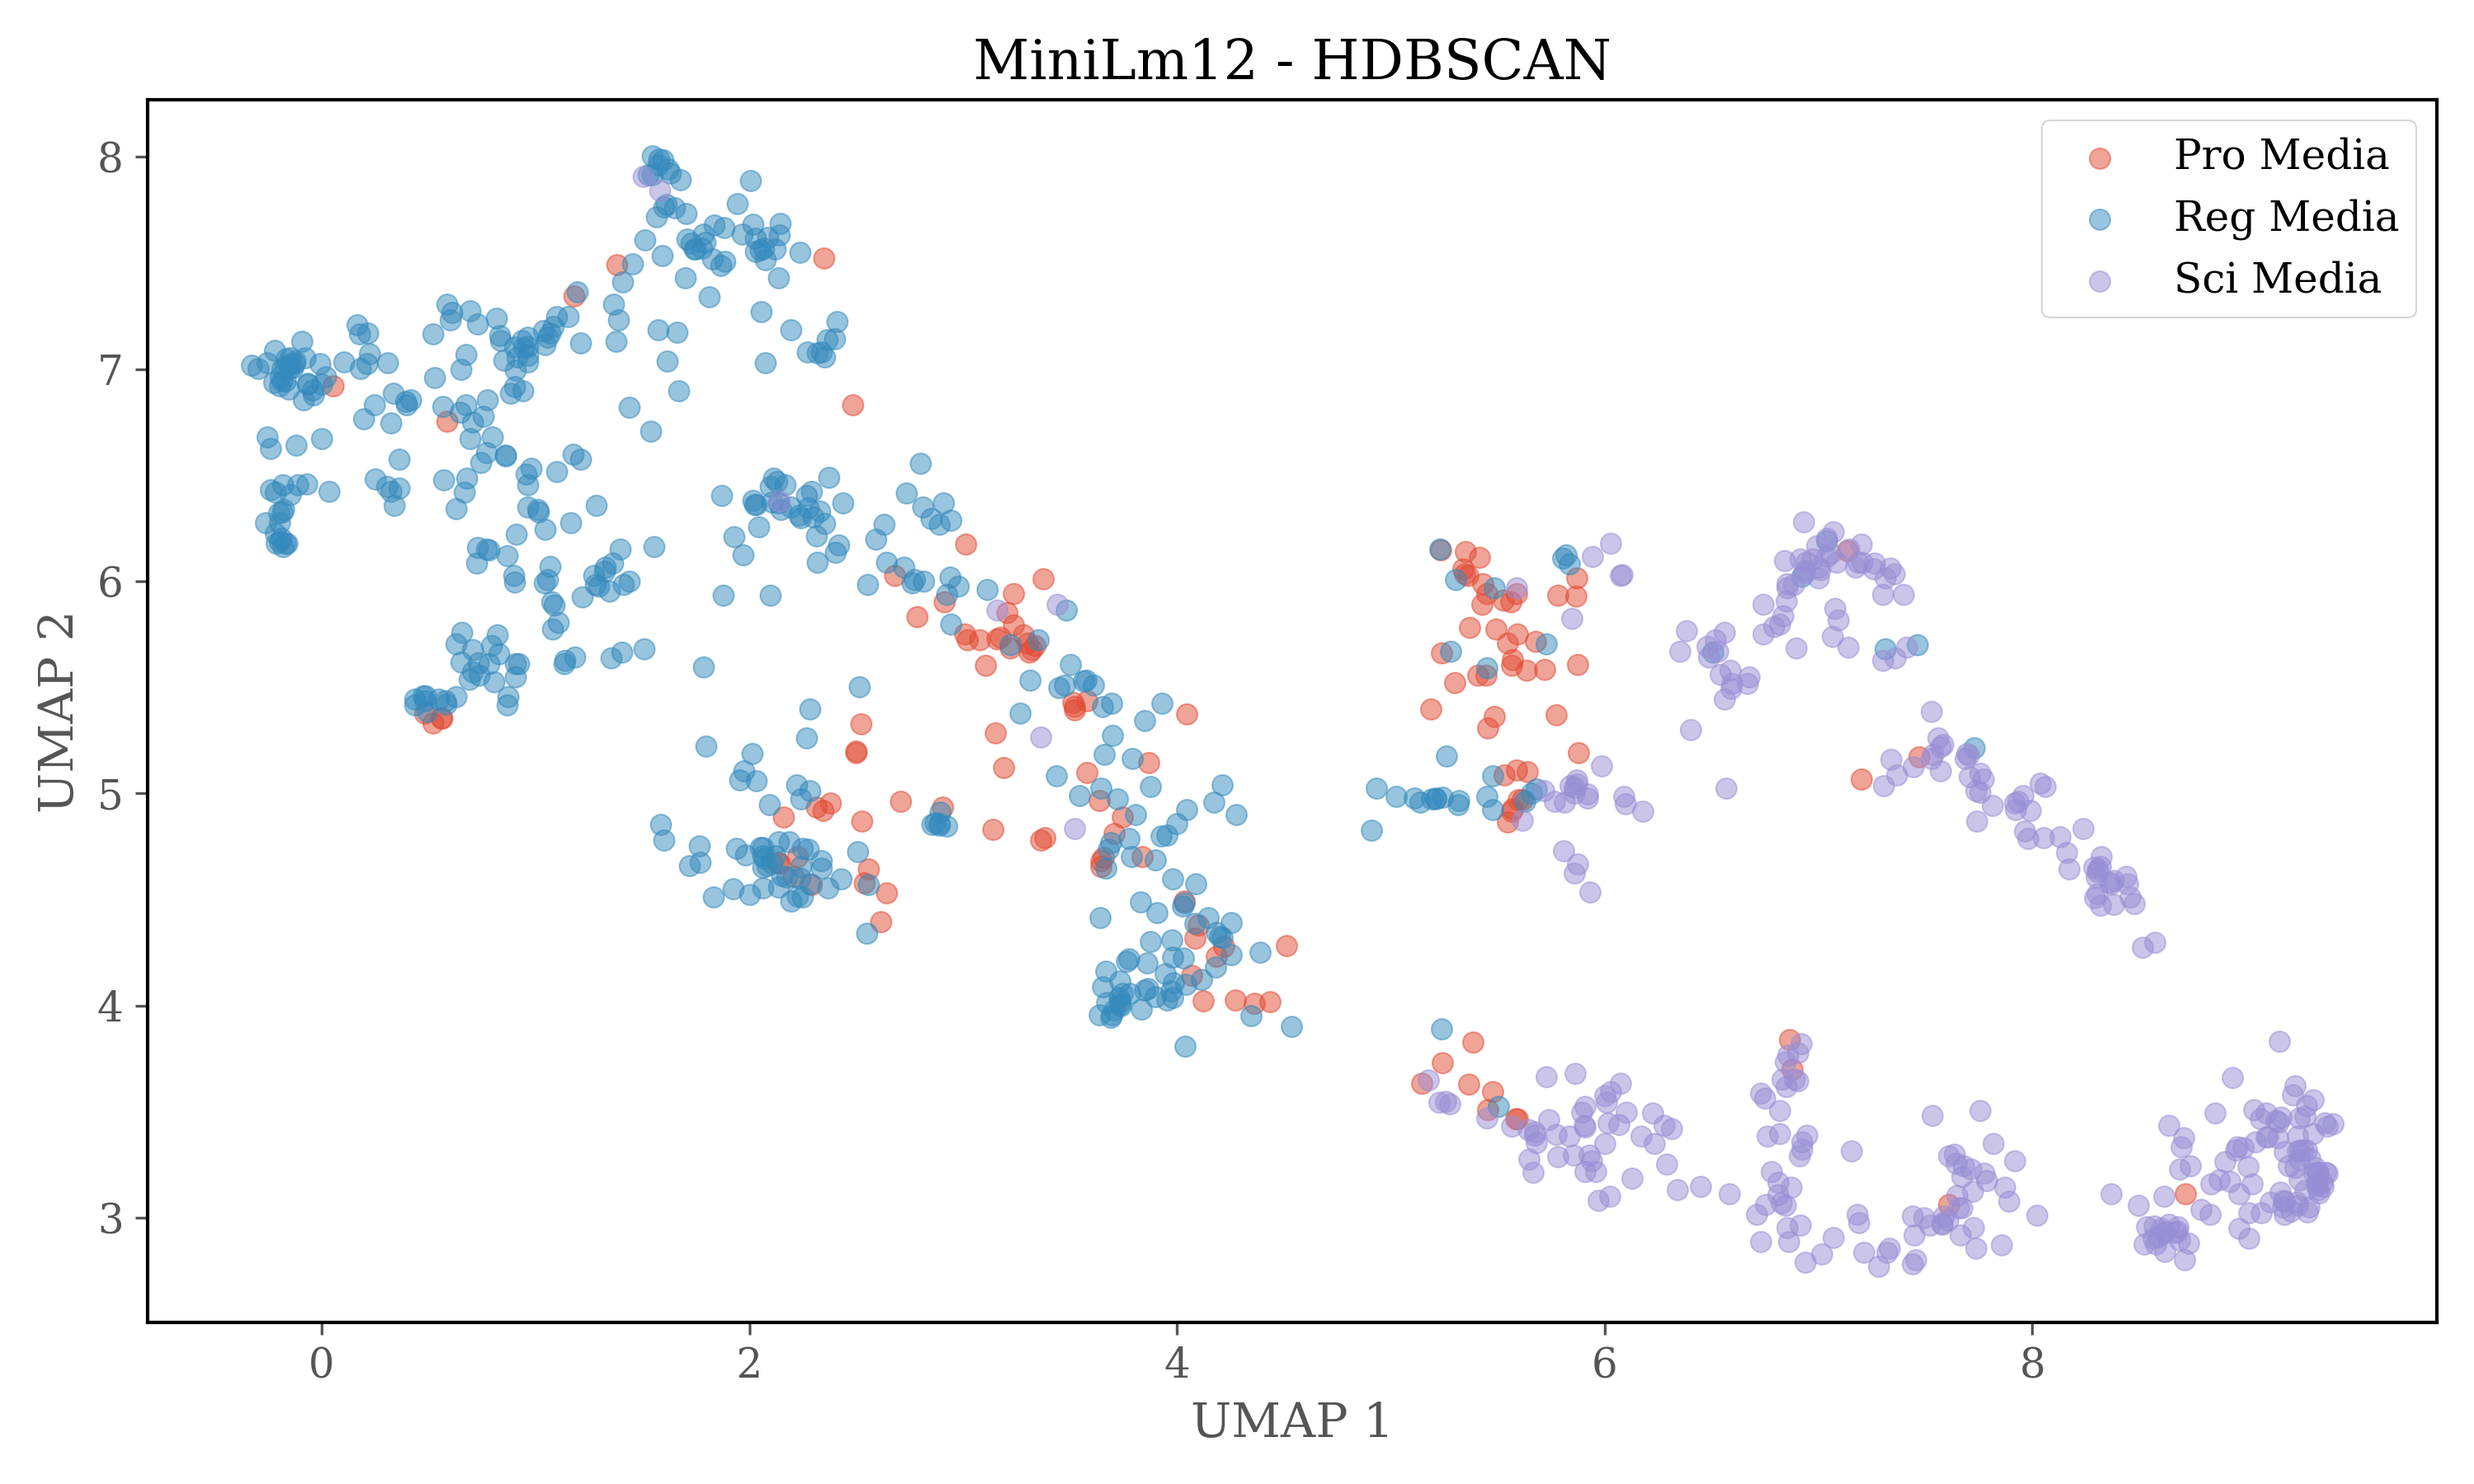
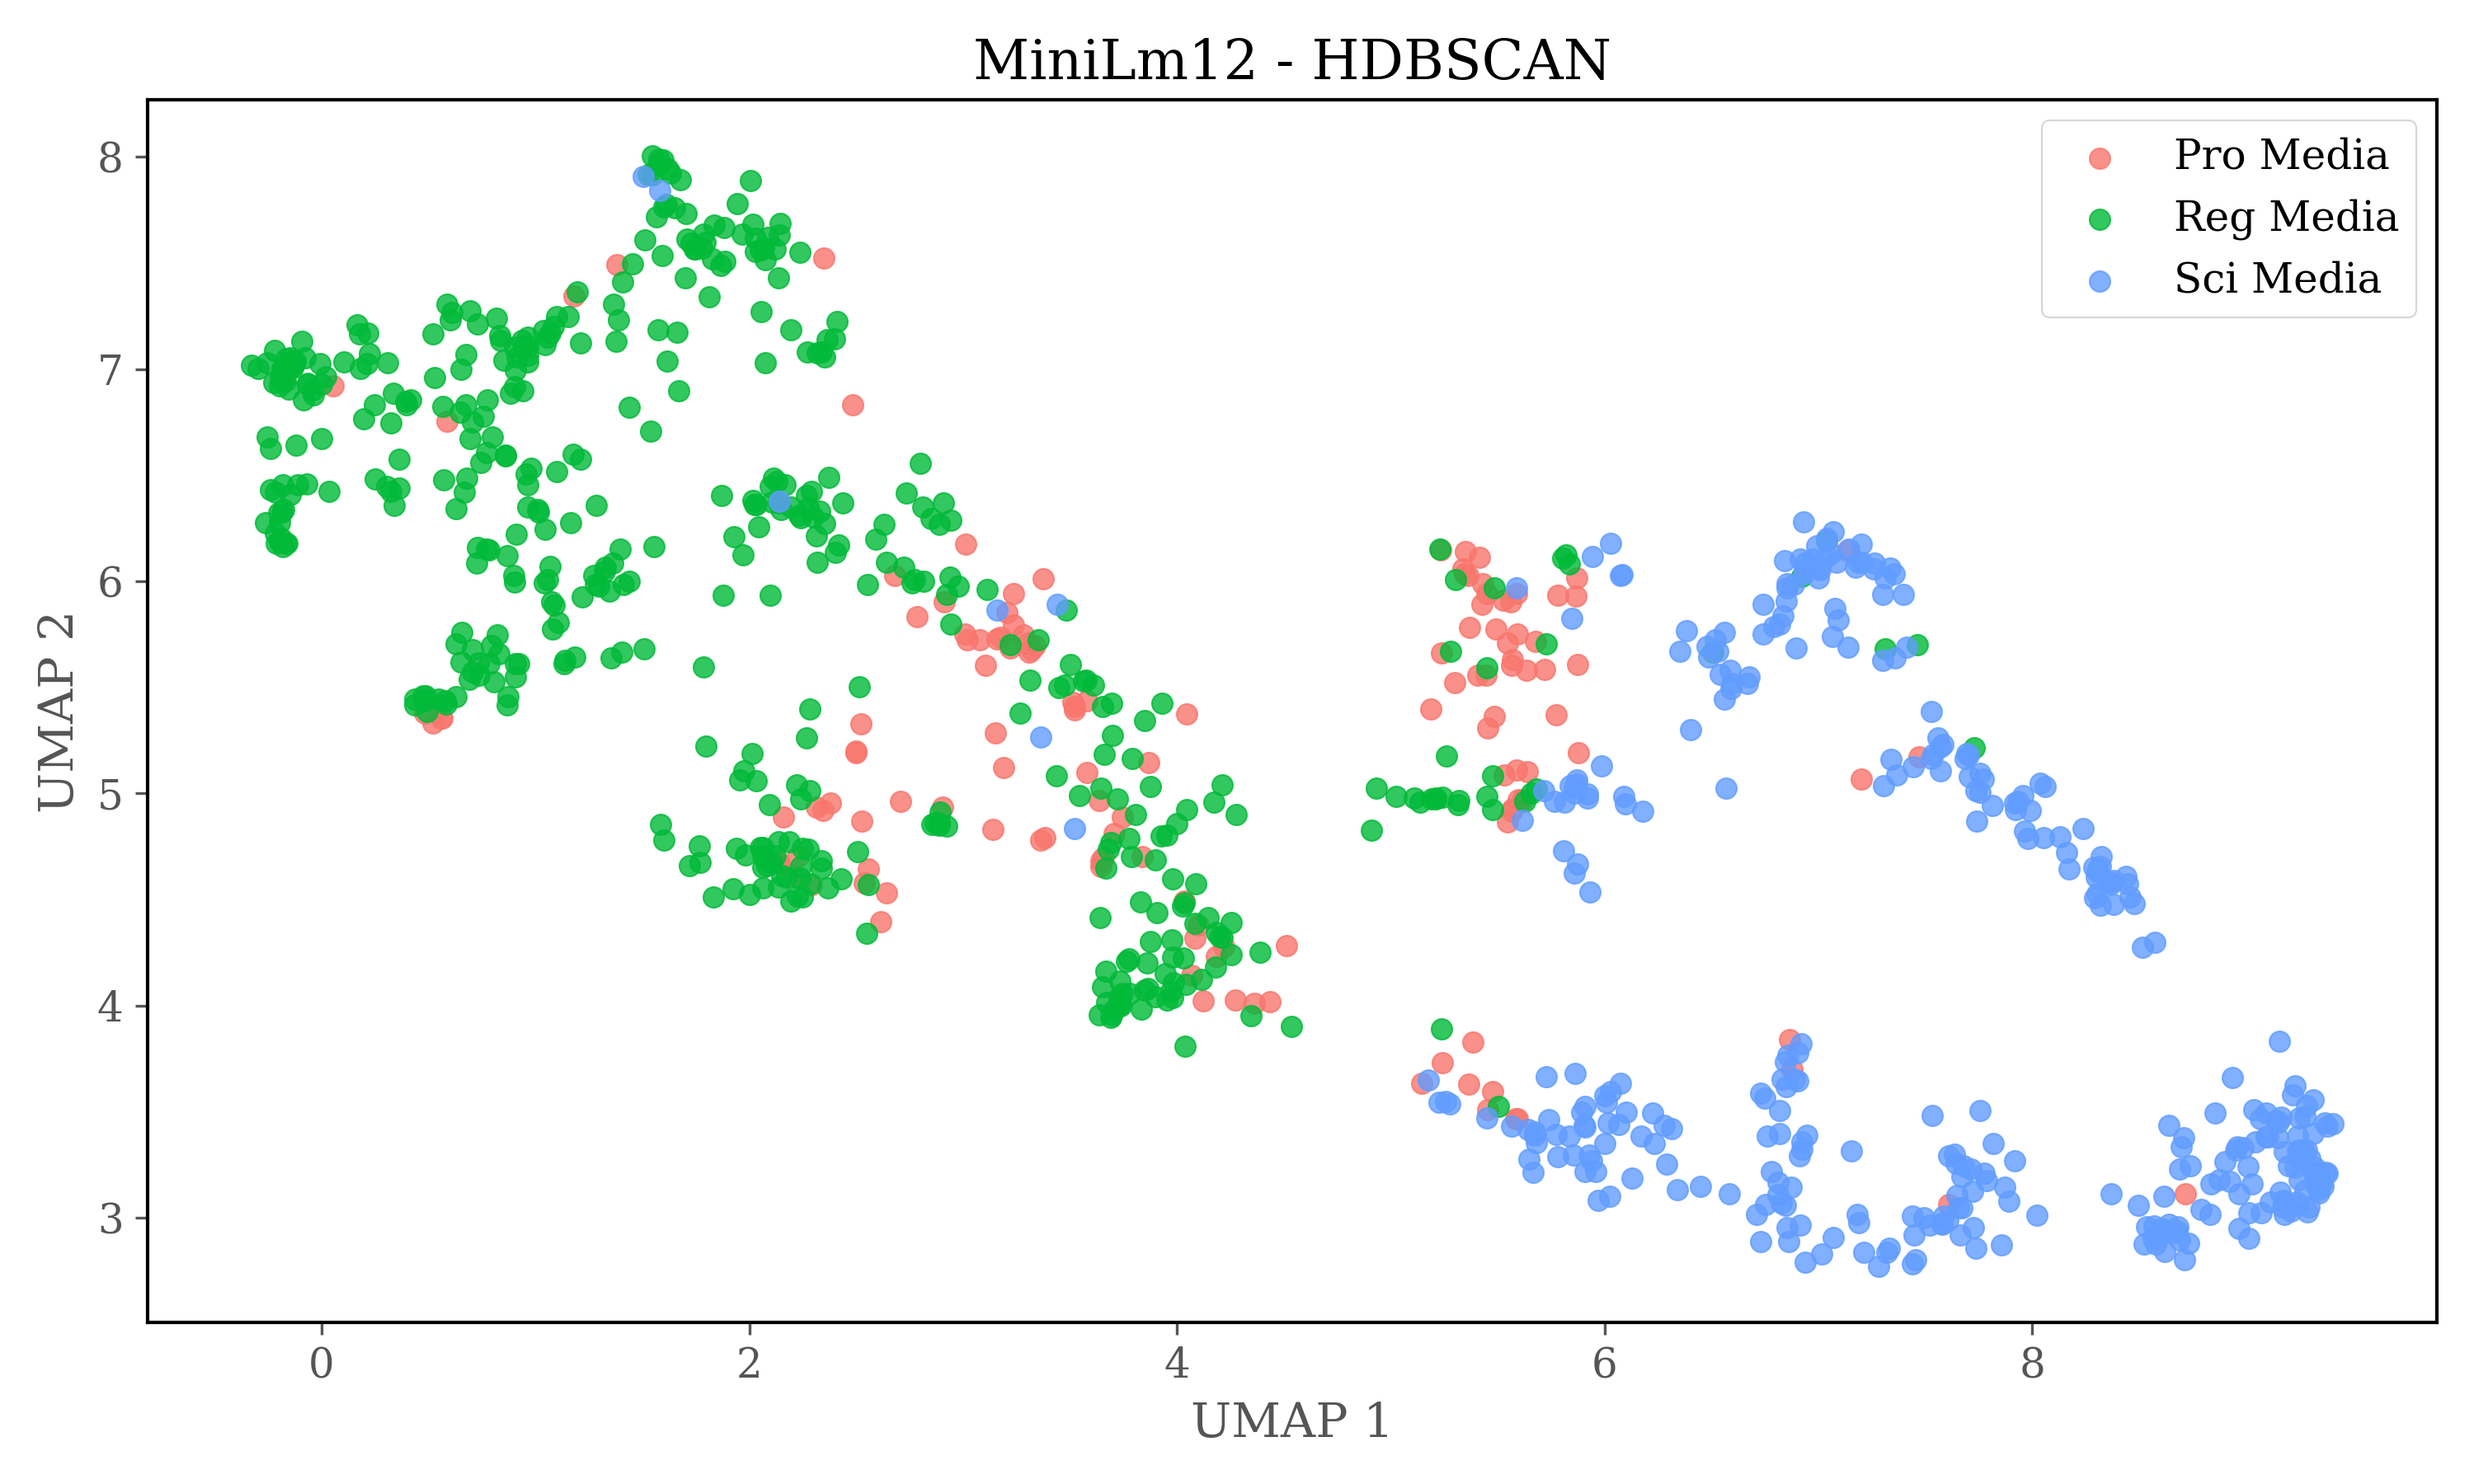
Merged plots

diff --git a/Visualizations/Merged_embeddings_plot.py b/Visualizations/Merged_embeddings_plot.py
@@ -17,7 +17,8 @@ def merged_embeddings_plot(embedding, cluster_model):
     """
     # Load the results from CSV
     df = pd.read_csv(f"evaluations/outputs/manualrun_{embedding}_merged_embeddings_clusters_{cluster_model}.csv")
-            
+    
+
     # Ensure the output directory exists
     output_dir = 'Visualizations/Plots/' 
     os.makedirs(output_dir, exist_ok=True)
@@ -25,6 +26,7 @@ def merged_embeddings_plot(embedding, cluster_model):
     # Create a scatter plot colored by cluster
     plt.figure(figsize=(10, 6))
     unique_clusters = df['cluster'].unique()
+    
     for cluster in unique_clusters:
         cluster_data = df[df['cluster'] == cluster]
         cluster_points = cluster_data[['x', 'y']].values
@@ -40,7 +42,14 @@ def merged_embeddings_plot(embedding, cluster_model):
             )
         
         # Plot points for the cluster
-        plt.scatter(cluster_data['x'], cluster_data['y'], label=f'Cluster {cluster}', alpha=0.8, edgecolors='face', linewidth=0.5, marker='o')
+        plt.scatter(
+                    cluster_data['x'], 
+                    cluster_data['y'], 
+                    label=f'Cluster {cluster}', 
+                    alpha=0.8, 
+                    edgecolors='face', 
+                    linewidth=0.5, 
+                    marker='o')
     plt.title(f'{embedding} - {cluster_model}')
     plt.xlabel('UMAP 1')
     plt.ylabel('UMAP 2')
@@ -53,10 +62,25 @@ def merged_embeddings_plot(embedding, cluster_model):
 
     # Create a scatter plot colored by source
     plt.figure(figsize=(10, 6))
+
+    ggplot_palette = ['#F8766D', '#00BA38', '#619CFF']
+    markers = {
+            "Sci Media": "o",  # Circle
+            "Pro Media": "s",  # Square
+            "Reg Media": "^"
+        }  # Triangle
+    
     unique_sources = df['Source'].unique()
-    for source in unique_sources:
+
+    for i, source in enumerate(unique_sources):
         source_data = df[df['Source'] == source]
-        plt.scatter(source_data['x'], source_data['y'], label=source, alpha=0.5)
+        plt.scatter(
+                    source_data['x'], 
+                    source_data['y'], 
+                    label=source, 
+                    alpha=0.8, 
+                    color=ggplot_palette[i % len(ggplot_palette)]
+                )
     plt.title(f'{embedding} - {cluster_model}')
     plt.xlabel('UMAP 1')
     plt.ylabel('UMAP 2')
